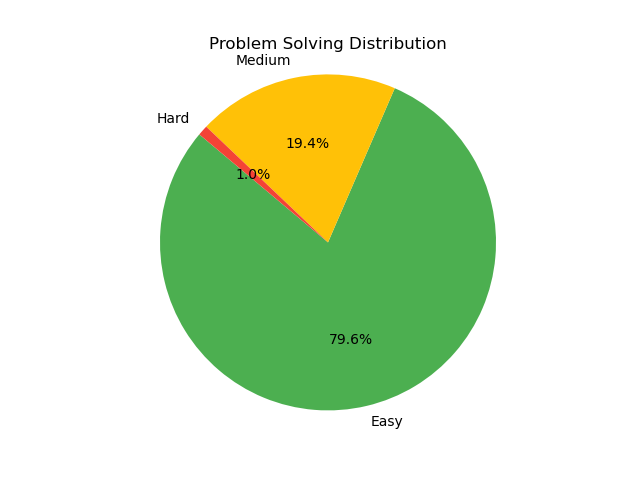
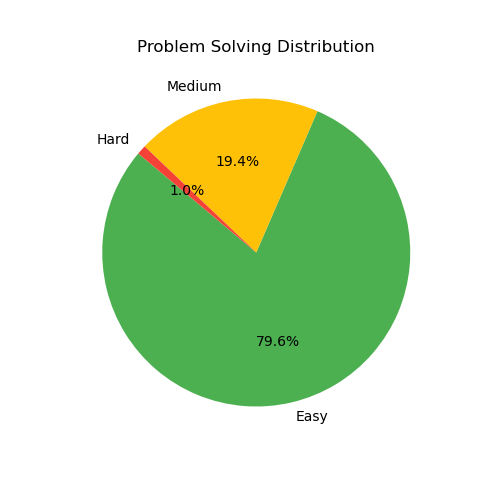
Updated code

diff --git a/update_readme.py b/update_readme.py
@@ -1,88 +1,6 @@
-
-
-# import requests
-# import plotly.graph_objects as go
-
-# # Fetch data from the LeetCode API
-# def fetch_leetcode_stats(username):
-#     url = f"https://leetcode-stats-api.herokuapp.com/{username}"
-#     response = requests.get(url)
-#     if response.status_code == 200:
-#         return response.json()
-#     else:
-#         raise Exception("❌ Failed to fetch data from LeetCode API")
-
-# # Generate donut chart and save it as a PNG
-# def plot_difficulty_distribution(stats, image_path="leetcode_stats.png"):
-#     fig = go.Figure(data=[go.Pie(
-#         labels=["Easy", "Medium", "Hard"],
-#         values=[
-#             stats.get("easySolved", 0),
-#             stats.get("mediumSolved", 0),
-#             stats.get("hardSolved", 0)
-#         ],
-#         hole=0.5,
-#         marker=dict(colors=["#2ECC71", "#F1C40F", "#E74C3C"]),
-#     )])
-#     fig.update_layout(
-#         title_text="📊 Problem Solving Distribution",
-#         annotations=[dict(text='LeetCode', x=0.5, y=0.5, font_size=20, showarrow=False)]
-#     )
-#     try:
-#         fig.write_image(image_path)
-#         print(f"[INFO] Chart saved to {image_path}")
-#     except Exception as e:
-#         print(f"[ERROR] Failed to save chart image: {e}")
-
-# # Update README.md with new stats
-# def update_readme(stats, repo_path="README.md"):
-#     with open(repo_path, "r") as file:
-#         readme = file.readlines()
-
-#     for i, line in enumerate(readme):
-#         if "**Contest Rating**" in line:
-#             readme[i] = f"- **Contest Rating**: {stats.get('contestRating', 'N/A')}  \n"
-#         elif "**Global Ranking**" in line:
-#             readme[i] = f"- **Global Ranking**: {stats.get('ranking', 'N/A')} / {stats.get('totalRanking', 'N/A')}  \n"
-#         elif "**Top Rank Achieved**" in line:
-#             readme[i] = f"- **Top Rank Achieved**: {stats.get('topPercentage', 'N/A')}%  \n"
-#         elif "**Acceptance Rate**" in line:
-#             readme[i] = f"- **Acceptance Rate**: {stats.get('acceptanceRate', 'N/A')}%  \n"
-#         elif "| 🟢 Easy" in line:
-#             readme[i] = f"| 🟢 Easy        | {stats.get('easySolved', 0)} / {stats.get('totalEasy', 0)}          | {stats.get('acceptanceRate', 0):.2f}%              |\n"
-#         elif "| 🟡 Medium" in line:
-#             readme[i] = f"| 🟡 Medium      | {stats.get('mediumSolved', 0)} / {stats.get('totalMedium', 0)}         | {stats.get('acceptanceRate', 0):.2f}%             |\n"
-#         elif "| 🔴 Hard" in line:
-#             readme[i] = f"| 🔴 Hard        | {stats.get('hardSolved', 0)} / {stats.get('totalHard', 0)}            | {stats.get('acceptanceRate', 0):.2f}%             |\n"
-#         elif "**Total Submissions**" in line:
-#             readme[i] = f"- **Total Submissions**: {stats.get('totalSubmissions', 'N/A')}  \n"
-#         elif "**Total Badges**" in line:
-#             readme[i] = f"- **Total Badges**: {stats.get('badges', 'N/A')}  \n"
-#         elif "**Most Recent Badge**" in line:
-#             readme[i] = f"- **Most Recent Badge**: {stats.get('mostRecentBadge', 'N/A')}  \n"
-
-#     with open(repo_path, "w") as file:
-#         file.writelines(readme)
-
-#     print("[INFO] README.md updated successfully.")
-
-# # Main Execution
-# if __name__ == "__main__":
-#     print("[DEBUG] Fetching LeetCode stats...")
-#     leetcode_username = "SKSANDY2396"
-#     stats = fetch_leetcode_stats(leetcode_username)
-#     # print("Fetched Stats:", stats)
-
-#     print("[DEBUG] Creating donut chart...")
-#     plot_difficulty_distribution(stats)
-
-#     print("[DEBUG] Updating README.md...")
-#     update_readme(stats)
-
-#     print("[SUCCESS] All updates complete. README and chart are up-to-date.")
-
 import requests
 import matplotlib.pyplot as plt
+from datetime import datetime
 
 # === CONFIG ===
 USERNAME = "SKSANDY2396"
@@ -100,6 +18,7 @@ query getUserProfile($username: String!) {
       ranking
       reputation
       starRating
+      userAvatar
     }
     submitStats: submitStatsGlobal {
       acSubmissionNum {
@@ -116,6 +35,16 @@ query getUserProfile($username: String!) {
     totalParticipants
     topPercentage
   }
+  userContestRankingHistory(username: $username) {
+    attended
+    rating
+    ranking
+    problemsSolved
+    contest {
+      title
+      startTime
+    }
+  }
 }
 """
 
@@ -128,8 +57,11 @@ if response.status_code != 200:
 data = response.json().get("data", {})
 user = data.get("matchedUser", {})
 contest = data.get("userContestRanking", {})
+contest_history = [
+    c for c in data.get("userContestRankingHistory", []) if c.get("attended")
+]
 
-# === Extract problem stats ===
+# === Problem Stats ===
 stats = {s["difficulty"]: s for s in user.get("submitStats", {}).get("acSubmissionNum", [])}
 easy = stats.get("Easy", {"count": 0, "submissions": 0})
 medium = stats.get("Medium", {"count": 0, "submissions": 0})
@@ -139,18 +71,54 @@ total_solved = easy["count"] + medium["count"] + hard["count"]
 total_submissions = easy["submissions"] + medium["submissions"] + hard["submissions"]
 acceptance_rate = round((total_solved / total_submissions) * 100, 2) if total_submissions > 0 else 0.0
 
-# === Generate Pie Chart ===
-labels = ["Easy", "Medium", "Hard"]
-sizes = [easy["count"], medium["count"], hard["count"]]
-plt.pie(sizes, labels=labels, autopct="%1.1f%%", startangle=140, colors=["#4CAF50","#FFC107","#F44336"])
-plt.axis("equal")
+# === Pie Chart ===
+plt.figure(figsize=(5, 5))
+plt.pie(
+    [easy["count"], medium["count"], hard["count"]],
+    labels=["Easy", "Medium", "Hard"],
+    autopct="%1.1f%%",
+    startangle=140,
+    colors=["#4CAF50", "#FFC107", "#F44336"]
+)
 plt.title("Problem Solving Distribution")
 plt.savefig(STATS_IMAGE)
 plt.close()
 
-# === Generate README.md content ===
+# === Recent 5 Contests ===
+contest_rows = ""
+for c in sorted(contest_history, key=lambda x: x['contest']['startTime'], reverse=True)[:5]:
+    date_str = datetime.fromtimestamp(c['contest']['startTime']).strftime("%Y-%m-%d")
+    contest_rows += f"| {c['contest']['title']} ({date_str}) | {c['rating']:.2f} | {c['ranking']} | {c['problemsSolved']} |\n"
+if not contest_rows:
+    contest_rows = "| No recent contests | - | - | - |\n"
+
+# === Contest Leaderboard Bar ===
+leaderboard_rows = ""
+for c in sorted(contest_history, key=lambda x: x['rating'], reverse=True)[:5]:
+    max_rating = 4000
+    bar_length = int((c['rating'] / max_rating) * 20)
+    bar = "█" * bar_length + "░" * (20 - bar_length)
+    date_str = datetime.fromtimestamp(c['contest']['startTime']).strftime("%Y-%m-%d")
+    leaderboard_rows += f"| {c['contest']['title']} ({date_str}) | {c['rating']:.2f} | {bar} |\n"
+if not leaderboard_rows:
+    leaderboard_rows = "| No recent contests | - | - |\n"
+
+# === Dynamic Badges ===
+base_badge_url = "https://img.shields.io/badge"
+acceptance_badge = f"{base_badge_url}/Acceptance-{acceptance_rate}%25-brightgreen"
+solved_badge = f"{base_badge_url}/Solved-{total_solved}-blue"
+ranking_badge = f"{base_badge_url}/Ranking-{user.get('profile', {}).get('ranking', 'N/A')}-orange"
+contests_badge = f"{base_badge_url}/Contests-{contest.get('attendedContestsCount', 'N/A')}-purple"
+
+# === README CONTENT ===
 readme_content = f"""
 # 🏆 LeetCode Journey by Sandeep Kumar  
+
+![Acceptance Rate]({acceptance_badge}) 
+![Total Solved]({solved_badge}) 
+![Ranking]({ranking_badge}) 
+![Contests Attended]({contests_badge})
+
 [Visit my LeetCode profile](https://leetcode.com/u/{USERNAME}/)  
 
 Welcome to my repository, where I document my journey of solving coding challenges on LeetCode.  
@@ -159,9 +127,19 @@ Welcome to my repository, where I document my journey of solving coding challeng
 
 ## 🚀 Contest Performance  
 - **Contest Rating**: {contest.get("rating", "N/A")}  
-- **Global Ranking**: {contest.get("globalRanking", "N/A")}  
+- **Global Ranking**: {contest.get("globalRanking", "N/A")} / {contest.get("totalParticipants", "N/A")}  
 - **Contests Attended**: {contest.get("attendedContestsCount", "N/A")}  
 - **Top Rank Achieved**: {contest.get("topPercentage", "N/A")}%  
+
+### 📈 Recent Contests
+| Contest | Rating | Rank | Problems Solved |
+|---------|--------|------|----------------|
+{contest_rows}
+
+### 📊 Contest Leaderboard
+| Contest | Rating | Progress |
+|---------|--------|---------|
+{leaderboard_rows}
 
 ---
 
@@ -170,22 +148,15 @@ Welcome to my repository, where I document my journey of solving coding challeng
 
 | Difficulty | Solved | Submissions |
 |------------|--------|-------------|
-| 🟢 Easy        | {easy['count']} | {easy['submissions']} |
-| 🟡 Medium      | {medium['count']} | {medium['submissions']} |
-| 🔴 Hard        | {hard['count']} | {hard['submissions']} |
+| 🟢 Easy    | {easy['count']} | {easy['submissions']} |
+| 🟡 Medium  | {medium['count']} | {medium['submissions']} |
+| 🔴 Hard    | {hard['count']} | {hard['submissions']} |
 
 ---
 
 ## 📊 Problem Solving Distribution
 
 ![LeetCode Stats]({STATS_IMAGE})
-
----
-
-## 🏅 Achievements and Badges  
-- **Ranking**: {user.get("profile", {}).get("ranking", "N/A")}  
-- **Reputation**: {user.get("profile", {}).get("reputation", "N/A")}  
-- **Star Rating**: {user.get("profile", {}).get("starRating", "N/A")}  
 
 ---
 

diff --git a/README.md b/README.md
@@ -1,5 +1,11 @@
 
 # 🏆 LeetCode Journey by Sandeep Kumar  
+
+![Acceptance Rate](https://img.shields.io/badge/Acceptance-84.09%25-brightgreen) 
+![Total Solved](https://img.shields.io/badge/Solved-407-blue) 
+![Ranking](https://img.shields.io/badge/Ranking-241922-orange) 
+![Contests Attended](https://img.shields.io/badge/Contests-3-purple)
+
 [Visit my LeetCode profile](https://leetcode.com/u/SKSANDY2396/)  
 
 Welcome to my repository, where I document my journey of solving coding challenges on LeetCode.  
@@ -8,9 +14,25 @@ Welcome to my repository, where I document my journey of solving coding challeng
 
 ## 🚀 Contest Performance  
 - **Contest Rating**: 1383.805  
-- **Global Ranking**: 681457  
+- **Global Ranking**: 681457 / 769342  
 - **Contests Attended**: 3  
 - **Top Rank Achieved**: 88.75%  
+
+### 📈 Recent Contests
+| Contest | Rating | Rank | Problems Solved |
+|---------|--------|------|----------------|
+| Weekly Contest 429 (2024-12-22) | 1383.81 | 13344 | 1 |
+| Biweekly Contest 146 (2024-12-21) | 1404.03 | 14093 | 1 |
+| Biweekly Contest 141 (2024-10-12) | 1414.50 | 24872 | 0 |
+
+
+### 📊 Contest Leaderboard
+| Contest | Rating | Progress |
+|---------|--------|---------|
+| Biweekly Contest 141 (2024-10-12) | 1414.50 | ███████░░░░░░░░░░░░░ |
+| Biweekly Contest 146 (2024-12-21) | 1404.03 | ███████░░░░░░░░░░░░░ |
+| Weekly Contest 429 (2024-12-22) | 1383.81 | ██████░░░░░░░░░░░░░░ |
+
 
 ---
 
@@ -19,22 +41,15 @@ Welcome to my repository, where I document my journey of solving coding challeng
 
 | Difficulty | Solved | Submissions |
 |------------|--------|-------------|
-| 🟢 Easy        | 324 | 381 |
-| 🟡 Medium      | 79 | 98 |
-| 🔴 Hard        | 4 | 5 |
+| 🟢 Easy    | 324 | 381 |
+| 🟡 Medium  | 79 | 98 |
+| 🔴 Hard    | 4 | 5 |
 
 ---
 
 ## 📊 Problem Solving Distribution
 
 ![LeetCode Stats](leetcode_stats.png)
-
----
-
-## 🏅 Achievements and Badges  
-- **Ranking**: 241922  
-- **Reputation**: 6  
-- **Star Rating**: 2.5  
 
 ---
 
